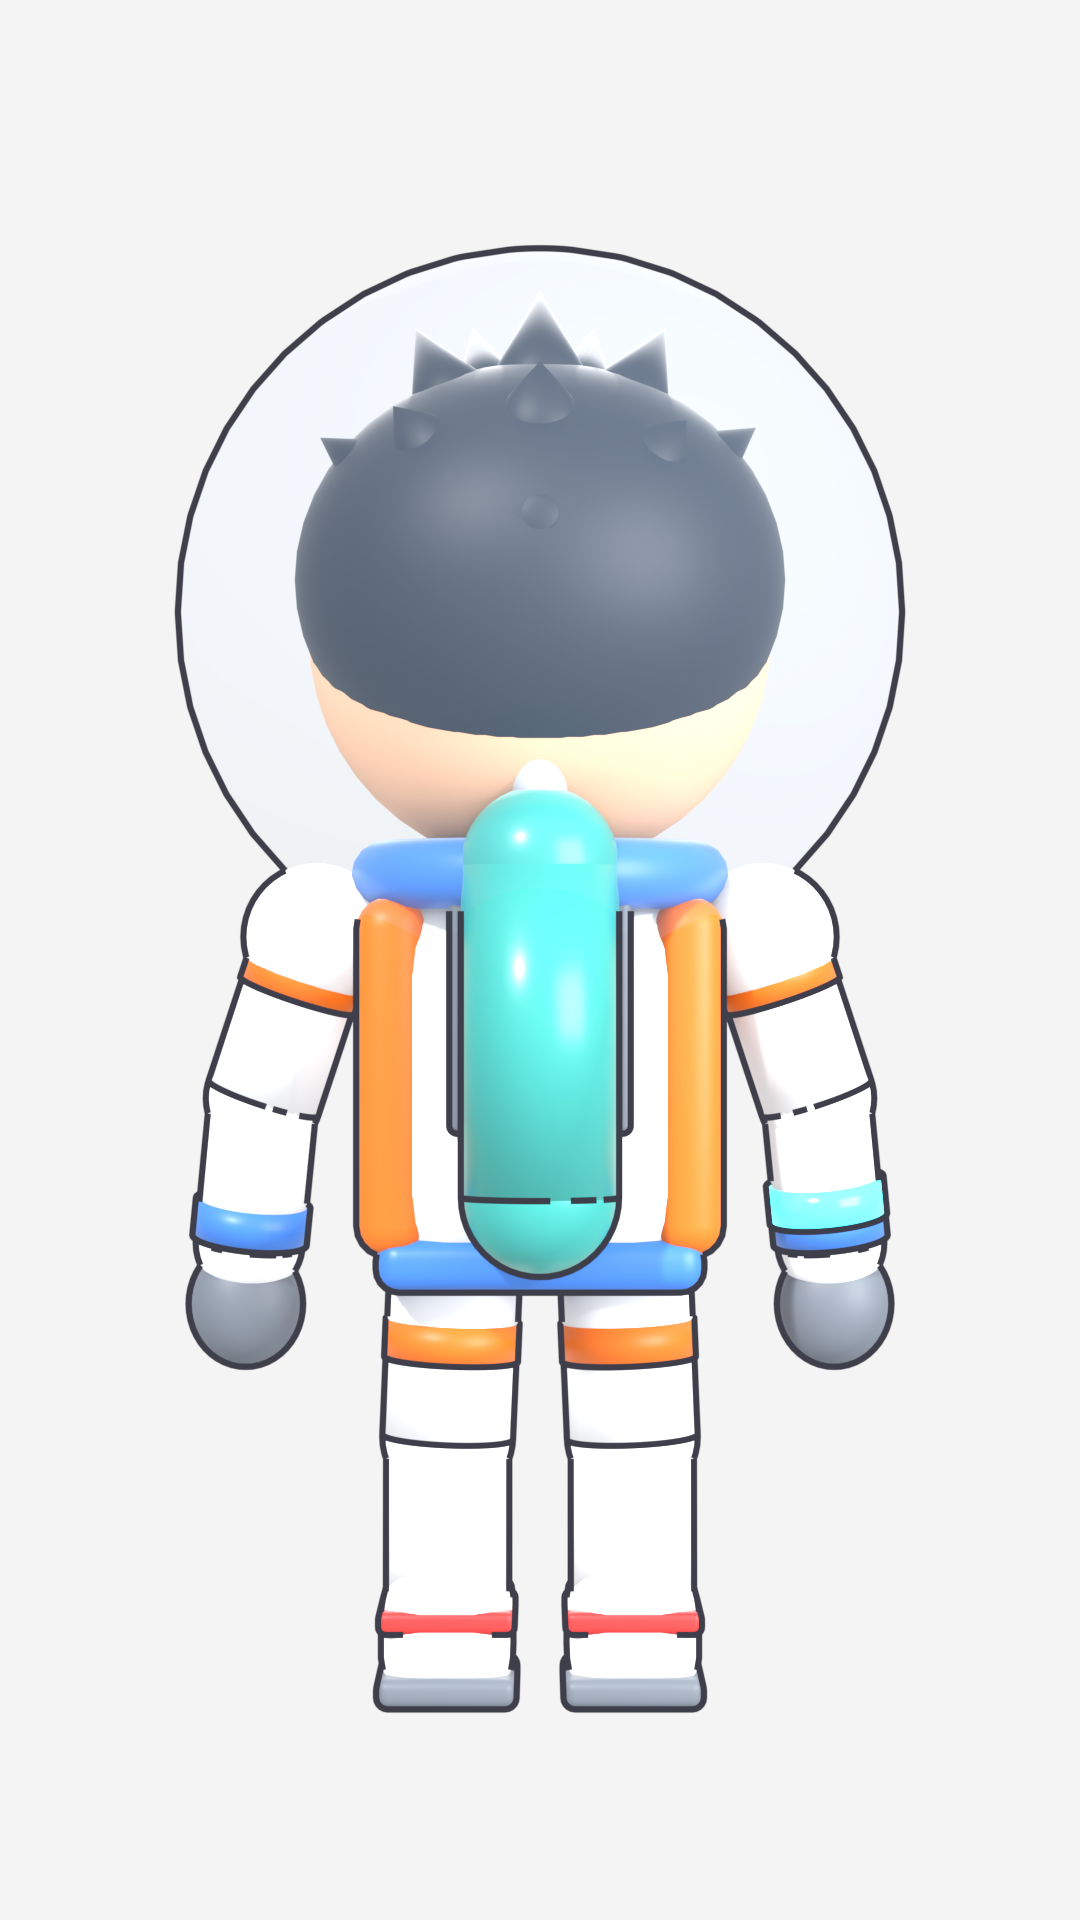
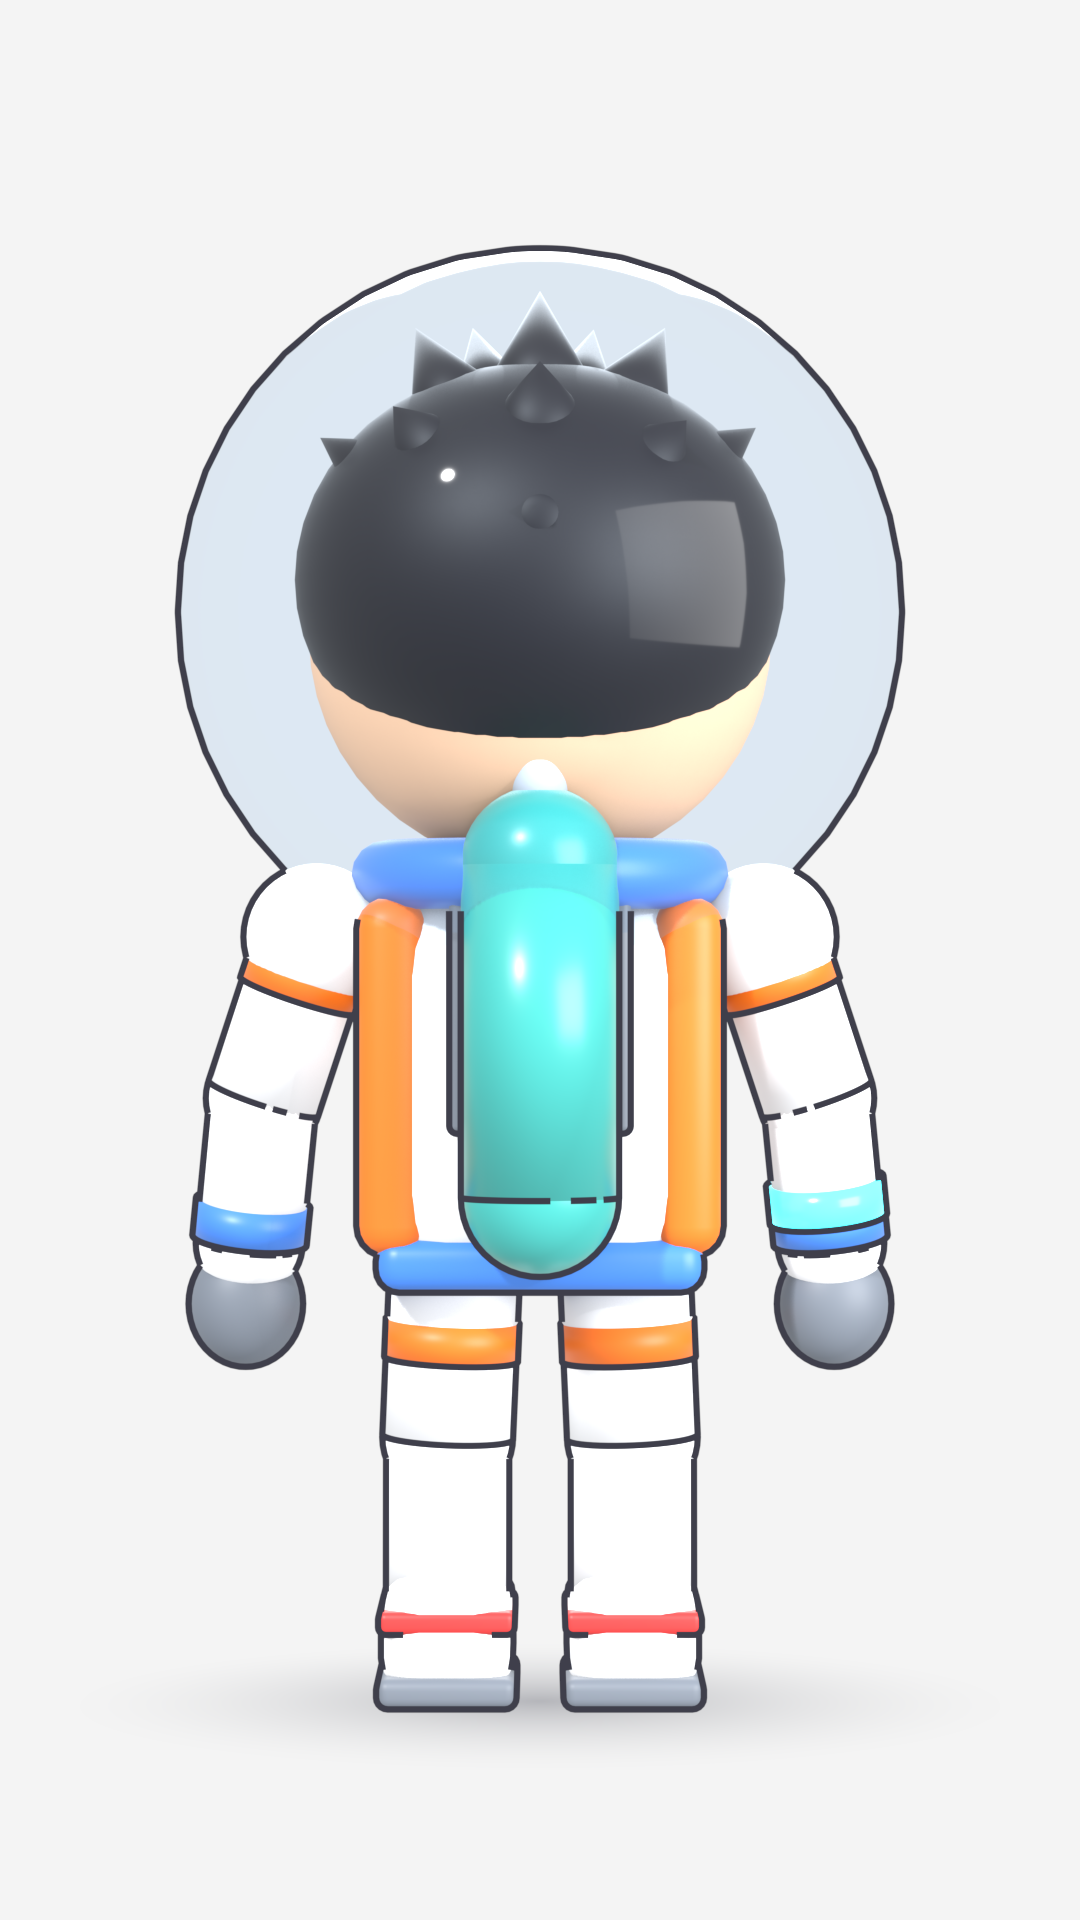
Fix helmet glass tint and add ground shadow in Timur renders
The alpha-blended helmet fill lightened everything behind it, so the
black hair rendered grey. The glass is now a multiplicative blue tint
(Transparent BSDF) with a glossy highlight only near the rim, which
keeps dark colours dark and matches the tint of the Cycles reference.

Also add a soft gradient disc under the feet as a ground shadow,
excluded from the Freestyle outline, and env overrides for output
folder, views, sample count and rim strength.

Re-render all four 1080x1920 views.

Changed region(s): [[0.275, 0.125, 0.825, 0.4062], [0.3056, 0.875, 0.6722, 0.9062]]

diff --git a/out/blender/render_hq.py b/out/blender/render_hq.py
@@ -7,8 +7,12 @@ import bpy, gpu, math, os
 from mathutils import Vector
 
 HERE = os.path.dirname(os.path.abspath(__file__))
-OUT = os.path.join(HERE, 'hq')
+# Необязательные переменные окружения: TIMUR_OUT (папка), TIMUR_VIEWS (front,side,...), TIMUR_SAMPLES, TIMUR_GLASS_RIM
+OUT = os.environ.get('TIMUR_OUT') or os.path.join(HERE, 'hq')
 os.makedirs(OUT, exist_ok=True)
+SAMPLES = int(os.environ.get('TIMUR_SAMPLES', 256))
+GLASS_RIM = float(os.environ.get('TIMUR_GLASS_RIM', .45))
+ONLY = [v for v in os.environ.get('TIMUR_VIEWS', '').split(',') if v]
 
 # --- модель: исполняем timur.py до блока рендера ---
 src = open(os.path.join(HERE, 'timur.py'), encoding='utf-8').read()
@@ -20,11 +24,21 @@ sc, root, M = bpy.context.scene, ns['root'], ns['M']
 # --- стекло шлема: преломление через рейтрейсинг EEVEE ---
 #     В EEVEE преломляющая сфера скрывает голову, поэтому стекло — полупрозрачный alpha-blend с бликом.
 g = M['glass']
-gb = g.node_tree.nodes['Principled BSDF']
-gb.inputs['Transmission Weight'].default_value = 0.
-gb.inputs['Alpha'].default_value = .07
-gb.inputs['Base Color'].default_value = (.45, .68, 1., 1)
-gb.inputs['Roughness'].default_value = .05
+#     Оттенок умножающий (Transparent BSDF), чтобы стекло не высветляло чёрные волосы; блик — только у края сферы.
+nt = g.node_tree
+for n in list(nt.nodes):
+    nt.nodes.remove(n)
+n_out = nt.nodes.new('ShaderNodeOutputMaterial')
+n_tr = nt.nodes.new('ShaderNodeBsdfTransparent'); n_tr.inputs['Color'].default_value = (.80, .90, 1., 1)
+n_gl = nt.nodes.new('ShaderNodeBsdfGlossy'); n_gl.inputs['Roughness'].default_value = .05
+n_lw = nt.nodes.new('ShaderNodeLayerWeight'); n_lw.inputs['Blend'].default_value = .12
+n_mul = nt.nodes.new('ShaderNodeMath'); n_mul.operation = 'MULTIPLY'; n_mul.inputs[1].default_value = GLASS_RIM
+n_mix = nt.nodes.new('ShaderNodeMixShader')
+nt.links.new(n_lw.outputs['Facing'], n_mul.inputs[0])
+nt.links.new(n_mul.outputs[0], n_mix.inputs['Fac'])
+nt.links.new(n_tr.outputs[0], n_mix.inputs[1])
+nt.links.new(n_gl.outputs[0], n_mix.inputs[2])
+nt.links.new(n_mix.outputs[0], n_out.inputs['Surface'])
 if hasattr(g, 'surface_render_method'):
     g.surface_render_method = 'BLENDED'
 else:
@@ -32,6 +46,37 @@ else:
 for attr, val in [('use_transparency_overlap', False), ('show_transparent_back', False), ('use_backface_culling', True)]:
     if hasattr(g, attr):
         setattr(g, attr, val)
+
+# --- мягкая тень-пятно под ногами (диск с радиальным затуханием; в контур Freestyle не попадает) ---
+sm = bpy.data.materials.new('blob_shadow'); sm.use_nodes = True
+st = sm.node_tree
+for n in list(st.nodes):
+    st.nodes.remove(n)
+s_out = st.nodes.new('ShaderNodeOutputMaterial')
+s_tr = st.nodes.new('ShaderNodeBsdfTransparent')
+s_em = st.nodes.new('ShaderNodeEmission'); s_em.inputs['Color'].default_value = (.10, .11, .16, 1)
+s_mix = st.nodes.new('ShaderNodeMixShader')
+s_tc = st.nodes.new('ShaderNodeTexCoord')
+s_gr = st.nodes.new('ShaderNodeTexGradient'); s_gr.gradient_type = 'SPHERICAL'
+s_pow = st.nodes.new('ShaderNodeMath'); s_pow.operation = 'POWER'; s_pow.inputs[1].default_value = 1.6
+s_mul = st.nodes.new('ShaderNodeMath'); s_mul.operation = 'MULTIPLY'; s_mul.inputs[1].default_value = .55
+st.links.new(s_tc.outputs['Object'], s_gr.inputs['Vector'])
+st.links.new(s_gr.outputs['Fac'], s_pow.inputs[0])
+st.links.new(s_pow.outputs[0], s_mul.inputs[0])
+st.links.new(s_mul.outputs[0], s_mix.inputs['Fac'])
+st.links.new(s_tr.outputs[0], s_mix.inputs[1])
+st.links.new(s_em.outputs[0], s_mix.inputs[2])
+st.links.new(s_mix.outputs[0], s_out.inputs['Surface'])
+if hasattr(sm, 'surface_render_method'):
+    sm.surface_render_method = 'BLENDED'
+else:
+    sm.blend_method = 'BLEND'
+bpy.ops.mesh.primitive_circle_add(radius=1, fill_type='NGON', vertices=64, location=(0, 0, -.012))
+blob = bpy.context.object; blob.scale = (.62, .62, 1); blob.data.materials.append(sm)
+no_line = bpy.data.collections.new('no_outline'); sc.collection.children.link(no_line)
+for c in list(blob.users_collection):
+    c.objects.unlink(blob)
+no_line.objects.link(blob)
 
 # --- мир и свет (как в timur.py) ---
 w = bpy.data.worlds.new('w'); sc.world = w; w.use_nodes = True
@@ -51,7 +96,7 @@ cam.rotation_euler = (math.radians(90), 0, 0); cam.data.lens = 104
 # --- рендер: EEVEE (GPU) ---
 sc.render.engine = 'BLENDER_EEVEE'
 ee = sc.eevee
-ee.taa_render_samples = 256
+ee.taa_render_samples = SAMPLES
 for attr, val in [('use_raytracing', True), ('use_shadows', True), ('shadow_ray_count', 3), ('shadow_step_count', 8),
                   ('use_gtao', True), ('use_fast_gi', True)]:
     if hasattr(ee, attr):
@@ -72,10 +117,13 @@ sc.render.use_freestyle = True; sc.render.line_thickness_mode = 'ABSOLUTE'; sc.r
 vl = sc.view_layers[0]; vl.use_freestyle = True
 fs = vl.freestyle_settings; ls = fs.linesets[0] if len(fs.linesets) else fs.linesets.new('L')
 ls.select_silhouette = True; ls.select_border = True; ls.select_crease = False
+ls.select_by_collection = True; ls.collection = no_line; ls.collection_negation = 'EXCLUSIVE'
 ls.linestyle = ls.linestyle or bpy.data.linestyles.new('LS')
 ls.linestyle.color = (0.05, 0.05, 0.07); ls.linestyle.thickness = 2.2
 
 for name, ang in [('front', 0), ('three_quarter', -35), ('side', -90), ('back', 180)]:
+    if ONLY and name not in ONLY:
+        continue
     root.rotation_euler = (0, 0, math.radians(ang))
     sc.render.filepath = os.path.join(OUT, f'timur_{name}_1080x1920.png')
     bpy.ops.render.render(write_still=True)
